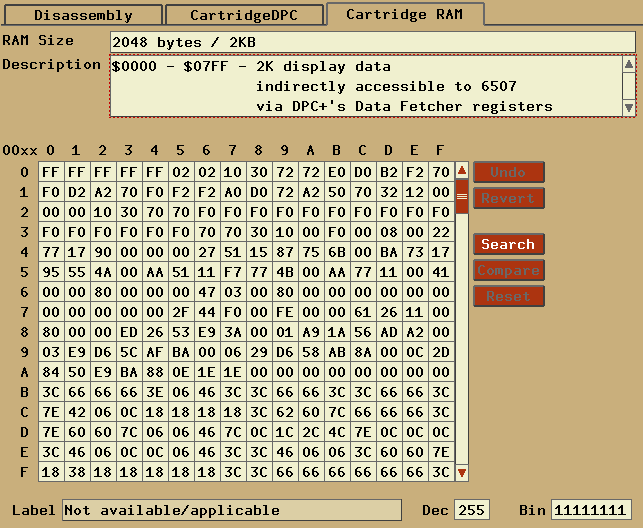
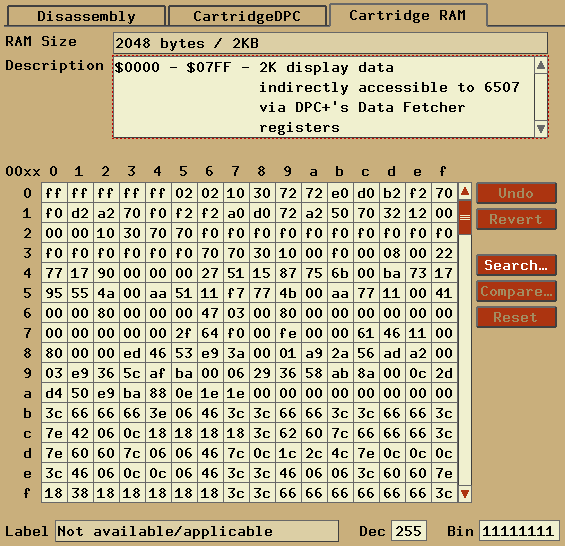
minimal debugger and text dialog sizes increased debugger doc updated and some links added missing ellipsis added to RAM widget

diff --git a/docs/debugger.html b/docs/debugger.html
@@ -56,6 +56,7 @@
         </li>
         <li><a href="#Disassembly">ROM Disassembly</a>
           <ul>
+            <li><a href="#DisassemblySettings">ROM Disassembly Settings</a></li>
             <li><a href="#Limitations">Limitations</a></li>
           </ul>
         </li>
@@ -260,50 +261,40 @@ previous rewind operation. The rewind buffer is 100 levels deep by default.<p>
 
 <p>You can also use the buttons from anywhere in the GUI via hotkeys.</p>
 
-<ul>
-  <table BORDER=1 cellpadding=5>
-    <tr>
-      <th>Function</th>
-      <th>Key (Standard)</th>
-      <th>Key (MacOSX)</th>
-    </tr>
-    <tr>
-      <td>Step</td>
-      <td>Control + s</td>
-      <td>Cmd + s</td>
-    </tr>
-    <tr>
-      <td>Trace</td>
-      <td>Control + t</td>
-      <td>Cmd + t</td>
-    </tr>
-    <tr>
-      <td>Scan+1</td>
-      <td>Control + L</td>
-      <td>Cmd + L</td>
-    </tr>
-    <tr>
-      <td>Frame+1</td>
-      <td>Control + f</td>
-      <td>Cmd + f</td>
-    </tr>
-    <tr>
-      <td>Rewind</td>
-      <td>Control + r</td>
-      <td>Cmd + r</td>
-    </tr>
-    <tr>
-      <td>Unwind</td>
-      <td>Control + Shift + r</td>
-      <td>Cmd + Shift + r</td>
-    </tr>
-    <tr>
-      <td>Exit</td>
-      <td>Backquote (`)</td>
-      <td>Backquote (`)</td>
-    </tr>
-  </table>
-</ul>
+<table BORDER=1 cellpadding=3>
+  <tr>
+    <th>Key</th>
+    <th>Function</th>
+  </tr>
+  <tr>
+    <td>Control + s</td>
+    <td>Step</td>
+  </tr>
+  <tr>
+    <td>Control + t</td>
+    <td>Trace</td>
+  </tr>
+  <tr>
+    <td>Control + L</td>
+    <td>Scan+1</td>
+  </tr>
+  <tr>
+    <td>Control + f</td>
+    <td>Frame+1</td>
+  </tr>
+  <tr>
+    <td>Control + r</td>
+    <td>Rewind</td>
+  </tr>
+  <tr>
+    <td>Control + Shift + r</td>
+    <td>Unwind</td>
+  </tr>
+  <tr>
+    <td>Backquote (`)</td>
+    <td>Exit</td>
+  </tr>
+</table>
 <p>When you use these buttons, the prompt doesn't change. This means the
 status lines with the registers and disassembly will be "stale". You
 can update them just by re-running the relevant commands in the prompt.</p>
@@ -335,6 +326,7 @@ or Supermon for the C=64.</p>
 Bash-style commands are also supported:</p>
 
 <table border="1" cellpadding="3">
+  <tr><th>Key</th><th>Function</th></tr>
 	<tr><td>Home</td><td>Move cursor to beginning of line</td></tr>
 	<tr><td>End</td><td>Move cursor to end of line</td></tr>
 	<tr><td>Delete</td><td>Remove character to right of cursor</td></tr>
@@ -356,7 +348,7 @@ Bash-style commands are also supported:</p>
 
 <p>To see the available commands, enter "help". For extended help, type "help cmd",
 where 'cmd' is the command you wish to know about. The available commands are listed
-at the end of this section. Bash-style tab completion is supported for commands,
+in <a href="#PromptCommands"><b>Prompt Commands</b></a> at the end of this section. Bash-style tab completion is supported for commands,
 labels and functions (see below).</p>
 
 <p>For now, there are some functions that only exist in the prompt. We
@@ -364,6 +356,7 @@ intend to add GUI equivalents for all (or almost all?) of the prompt
 commands in future releases. People who like command prompts will be able to
 use the prompt, but people who hate them will have a fully functional
 debugger without typing (or without typing much, anyway).</p>
+</br>
 
 <h3><a name="TabCompletion">Tab Key Auto-Complete</a></h3>
 
@@ -383,6 +376,7 @@ characters in the right order as a match (e.g. "twf" will be completed to
 or set during debugging with the "define" command. It also works with
 built-in functions and those defined with the "function" command,
 but it doesn't (yet) work on filenames.</p>
+</br>
 
 <h3><a name="Expressions">Expressions</a></h3>
 
@@ -700,7 +694,7 @@ also delete them all with the "clearwatches" command.</p>
 
 <p>Note that there's no real point in watching a label or CPU register
 without dereferencing it: Labels are constants, and CPU registers
-are already visible in the CPU Widget</p>
+are already visible in the <a href="#CPURegisters"><b>CPU Registers</b></a> widget</p>
 
 <h4><a name="Traps">Traps</a></h4>
 
@@ -712,7 +706,7 @@ or memory.</p>
 <p>Traps can also combined with a condition ("trapif"). If an access
 to a memory address is caught, the condition is evaluated additionally.
 Only if the condition is true too, the emulations stops. For details
-about conditions see <b>Conditional Breaks</b> described above.</p>
+about conditions see <a href="#ConditionalBreaks"><b>Conditional Breaks</b></a> described above.</p>
 
 <p>An example: you are debugging a game, and you want to stop the
 emulation and enter the debugger whenever RESP0 is strobed. You'd use
@@ -750,7 +744,7 @@ later re-use.
 want to re-use them in future runs of the debugger. You can save all
 your functions, breakpoints, conditional breaks, traps and watches with the
 "save" command. If you name your saved file the same as the ROM filename
-and place it in the ROM directory, it'll be auto-loaded next time you
+and place it in the ROM directory, it will be auto-loaded next time you
 load the same ROM in Stella. The save file is just a plain text file
 called "rom_filename.script", so you can edit it and add new functions, etc.</p>
 <p>While "save" is ROM specific, you can also create a file called
@@ -758,7 +752,7 @@ called "rom_filename.script", so you can edit it and add new functions, etc.</p>
 what ROM you have loaded. The location of this file will depend on the
 version of Stella, as follows:</p>
 
-  <p><table cellpadding="5" border="1">
+  <p><table cellpadding="3" border="1">
     <tr>
       <td><b>Linux/Unix</b></td>
       <td><i>~/.stella/autoexec.script</i></td>
@@ -783,8 +777,8 @@ these files, and not worry about slowing down emulation unless you're
 actively using the debugger.</p>
 
 <h4>saveconfig</h4>
-The "saveconfig" command creates a DiStella configuration file which is
-based on Stella's runtime and static analsyis of the current ROM.
+The "saveconfig" command creates a <a href="#DistellaConfiguration"><b>DiStella Configuration File</b></a> which is
+based on Stella's dynamic and static analysis of the current ROM.
 <p>This will be automatically loaded the next time your start the debugger.
 From there on, you can continue analyzing the ROM and then use "saveconfig"
 again to update the configuration. You can also use "loadconfig" to load it
@@ -792,7 +786,7 @@ manually.
 <p>Note that this is not tested for multi-banked ROMs.</p>
 
 <h4>savedis</h4>
-While your are playing or debugging a game, Stella will gather runtime
+While your are playing or debugging a game, Stella will gather dynamic
 information about the ROM. It can then use that information together with
 a static analysis of the ROM and therefore create a better disassembly
 than DiStella alone. "savedis" allows you to save that disassembly as the
@@ -810,7 +804,7 @@ The "saveses" command dumps the whole prompt session into a file named
 when you were debugging at that time.
 
 <h4>savestate</h4>
-<p>This command work identical to the save state hotkey (F9) during emulation.
+<p>This command works identical to the save state hotkey (F9) during emulation.
 Any previously saved state can be loaded with "loadstate" plus the slot
 number (0-9).</p>
 </br>
@@ -1008,7 +1002,7 @@ the partial contents of the current frame will be displayed up to the
 current scanline, with the contents of the old frame (in black &amp;
 white) filling the rest of the display. Note that if 'phosphor mode'
 or TV effects are enabled, you won't see the effects here; this shows the
-raw TIA image only.</p>
+<b>raw</b> TIA image only.</p>
 
 <p>You can use the "Scan+1" button, the prompt "scan" command, or the
 Control-L key to watch the TIA draw the frame one scanline at a time.</p>
@@ -1024,8 +1018,8 @@ as illustrated:</p>
 	mouse was clicked. Note that if you weren't in partial-frame mode,
 	this option will have no effect.</li>
 	<li><b>Toggle breakpoint</b>: Will toggle a conditional breakpoint at the
-	scanline where the mouse was clicked. You can to use
-	the Prompt Tab to turn the breakpoint off again.</li>
+	scanline where the mouse was clicked. You can also use
+	the Prompt Tab commands to list and turn off the breakpoint.</li>
 	<li><b>Set zoom position</b>: Influences what is shown in the TIA
 	zoom area (further described in part (G). The zoom area will
 	contain the area centered at the position where the mouse was
@@ -1079,19 +1073,28 @@ as illustrated:</p>
 <p>These options allow you to zoom in on the image for even greater detail.
 If you click on the output window, you can scroll around using the cursor,
 PageUp/Dn and Home/End keys. You can also select the zoom position from
-a context menu in the TIA Display.</p>
+a context menu in the <a href="#TIADisplay"><b>TIA Display</b></a>.</p>
 
 
 <!-- /////////////////////////////////////////////////////////////////////////  -->
 <br>
 <h2><a name="BreakpointStatus"></a><u>(H)</u> Breakpoint/Trap Status</a></h2>
-<p>Below the TIA Zoom (G), there is a status line that shows the reason the
-debugger was entered (if a breakpoint/trap was hit), as shown:</p>
+<p>Below the TIA Zoom (G), there is a status line that shows the reason and the
+address the debugger was entered (if a breakpoint or trap was hit), as shown:</p>
 <p><img src="graphics/debugger_bpstatus.png"></p>
 <p>The output here will generally be self-explanatory. Due to space concerns,
-conditional breakpoints will be shown as "CBP: ...", normal breakpoints
-as "BP: ...", read traps as "RTrap: ..." and write traps as "WTrap: ...".
-See the "Breakpoints" section for details.</p>
+the reasons will be shown as follows:
+<ul>
+  <li>"CBP:" for conditional breakpoints</li>
+  <li>"BP:" for normal breakpoints</li>
+  <li>"RTrap:" for read traps</li>
+  <li>"WTrap:" for write traps</li>
+  <li>"RTrapIf:" for conditional read traps</li>
+  <li>"WTrapIf:" for conditional write traps</li>
+</ul>
+</p>
+See the <a href="#BreakpointsEtc"><b>Breakpoints, watches and traps...</b></a>
+section for details.</p>
 
 
 <!-- /////////////////////////////////////////////////////////////////////////  -->
@@ -1110,7 +1113,7 @@ registers. For example, consider the command 'LDA ($80),Y'. The operand of
 the command resolves to some address, which isn't always easy to determine at
 first glance. The 'Src Addr' area shows the actual resulting operand/address
 being used with the given opcode.</p>
-<p>There's not much else to say about the CPU widget: if you know 6502
+<p>There's not much else to say about the CPU Registers widget: if you know 6502
 assembly, it's pretty self-explanatory. If you don't, well, you should
 learn :)</p>
 
@@ -1148,17 +1151,19 @@ To change a RAM location, either double-click on it or press Enter while
 it's highlighted. Enter the new value (hex only for now, sorry), then
 press Enter to make the change. If you change your mind, press Escape
 and the original value will be restored. The currently selected RAM cell
-can also be changed by using the Data operations buttons/associated
-shortcut keys (J).</p>
+can also be changed by using the
+<a href="#DataOpButtons"><b>Data Operations Buttons</b></a> or the associated
+shortcut keys.</p>
 <p><img src="graphics/debugger_ram.png"></p>
 <p>The 'Undo' button in the upper right should be self-explanatory; it will
 undo the most previous operation to one cell only. The 'Revert' button is
-more comprehensive. It will undo <i>all</i> operations on <i>all</i> cells
+more comprehensive. It will undo <b>all</b> operations on <b>all</b> cells
 since you first made a change.</p>
 <p>The UI objects at the bottom refer to the currently selected RAM cell.
-The 'label' textbox shows the label attached to this RAM location (if any),
-and the other textboxes show the decimal and binary equivalent value.
-The remaining buttons to the right are further explained in section (L).</p>
+The 'Label' textbox shows the label attached to this RAM location (if any),
+and the other two textboxes show the decimal and binary equivalent value.</p>
+
+<p>The remaining buttons to the right are further explained in the next section.</p>
 
 
 <!-- /////////////////////////////////////////////////////////////////////////  -->
@@ -1167,11 +1172,11 @@ The remaining buttons to the right are further explained in section (L).</p>
 energy, but it's also very useful when debugging to determine which
 memory location holds which quantity.</p>
 <p><img src="graphics/debugger_ramsearch.png"></p>
-<p>To search RAM, click 'Search' and enter a byte value into the search editbox (0-255).
-All matching values will be highlighted in the RAM widget. If 'Search' is clicked
-and the input is empty, all RAM locations are highlighted.</p>
+<p>To search the RAM, click 'Search...' and enter a byte value into the search editbox (0-255).
+All matching values will be highlighted in the RAM widget. If no value was entered,
+all RAM locations will be highlighted.</p>
 
-<p>The 'Compare' button is used to compare the given value using all
+<p>The 'Compare...' button is used to compare the given value using all
 addresses currently highlighted. This may be an absolute number (such as 2),
 or a comparative number (such as -1). Using a '+' or '-' operator
 means 'search addresses for values that have changed by that amount'.</p>
@@ -1180,10 +1185,10 @@ addresses and allows another search.</p>
 <p>The following is an example of inspecting all addresses that have
 decreased by 1:</p>
 <ul>
-	<li>Click 'Search' with empty input. All address/values are highlighted</li>
+	<li>Click 'Search...' and then 'OK' (no value entered). All address/values are highlighted</li>
 	<li>Exit debugger mode and lose a life, let your energy decrease, or
 		do whatever it is you're trying to debug</li>
-	<li>Enter debugger mode again, click 'Compare' and and enter a '-1' for input.
+	<li>Enter debugger mode again, click 'Compare...' and and enter a '-1' for input.
 		This finds all values that have decreased by 1 (as compared to their current
 		values)</li>
 	<li>Repeatedly following these steps may help to narrow number of
@@ -1219,7 +1224,7 @@ a relative jump are in fact code, or simply data.</p>
 <p>The <B>"Bank state"</B> is self-explanatory, and shows a summary of the current
 bank information. For normal bankswitched ROMs, this will be the current bank number,
 however more advanced schemes will show other types of information here. More detailed
-information is available in Detailed Bankswitch Information (N).</p>
+information is available in <a href="#BankswitchInformation"><b>Detailed Bankswitch Information</b></a>.</p>
 
 <p>Each line of disassembly has four fields:</p>
 <ul>
@@ -1228,13 +1233,14 @@ labels. Normally there will be nothing there: this indicates that there's
 no breakpoint set at that address. You can set and clear breakpoints by
 clicking in this area. When a breakpoint is set, there will be a
 red circle in this area. These are the same breakpoints as used
-by the "break" command, <b>not</b> the conditional "breakif" breakpoints
-(which makes sense: cond-breaks can break on any condition, the Program
+by the <a href="#Breakpoints">break</a> command, <b>not</b> the conditional "breakif" breakpoints
+(which makes sense: conditional breaks can break on any condition, the Program
 Counter isn't necessarily involved).</li>
 <li><b>Labels</b>: Any labels assigned to the given address, either generated
 automatically by Distella, read from a DASM symbol file or custom
-labels created by the user. If 'PC addresses' is enabled, the address will
-be shown in grey.</li>
+labels created by the user. If 'Show PC addresses'
+(see <a href="#DisassemblySettings"><b>ROM Disassembly Settings</b></a>) is enabled,
+the address will be shown in grey.</li>
 <li><b>Disassembled bytes</b>: This is either a standard 6502 mnemonic (possibly with operand),
 or information about graphics and/or data. For instructions, the cycle count will be
 included, separated by a semicolon. For graphics, a bitmap of the data, and the address
@@ -1298,6 +1304,8 @@ the contents of a certain address will change the area pointed to <b>at
 that time</b>. In particular, modifying an address that points to internal
 RAM will change the RAM, not the underlying ROM. A future release may
 graphically differentiate between RAM and ROM areas.</p>
+
+<h3><a name="DisassemblySettings"></a>ROM Disassembly Settings</a></h3>
 
 <p>The ROM Disassembly also contains a Settings dialog, accessible by right-clicking
 anywhere in the listing:</p>
@@ -1396,7 +1404,7 @@ the RAM in the DPC scheme is not viewable by the 6507, so its addresses start fr
 <!-- /////////////////////////////////////////////////////////////////////////  -->
 <br>
 <h1><a name="DistellaConfiguration">Distella Configuration Files</a></h1>
-<p>As mentioned in ROM Disassembly (M), Stella supports the following directives:
+<p>As mentioned in <a href="#Disassembly"><b>ROM Disassembly</b></a>, Stella supports the following directives:
 CODE/GFX/PGFX/DATA/ROW. While the debugger will try to automatically mark address
 space with the appropriate directive, there are times when it will fail. There are
 several options in this case:</p>
@@ -1419,7 +1427,7 @@ named "rr.a26", with properties entry "River Raid". Attempts will be made as fol
 </ul>
 <p>The location of 'configdir' will depend on the version of Stella, as follows:</p>
 
-	<p><table cellpadding="5" border="1">
+	<p><table cellpadding="3" border="1">
 		<tr>
 			<td><b>Linux/Unix</b></td>
 			<td><i>~/.stella/cfg/</i></td>
